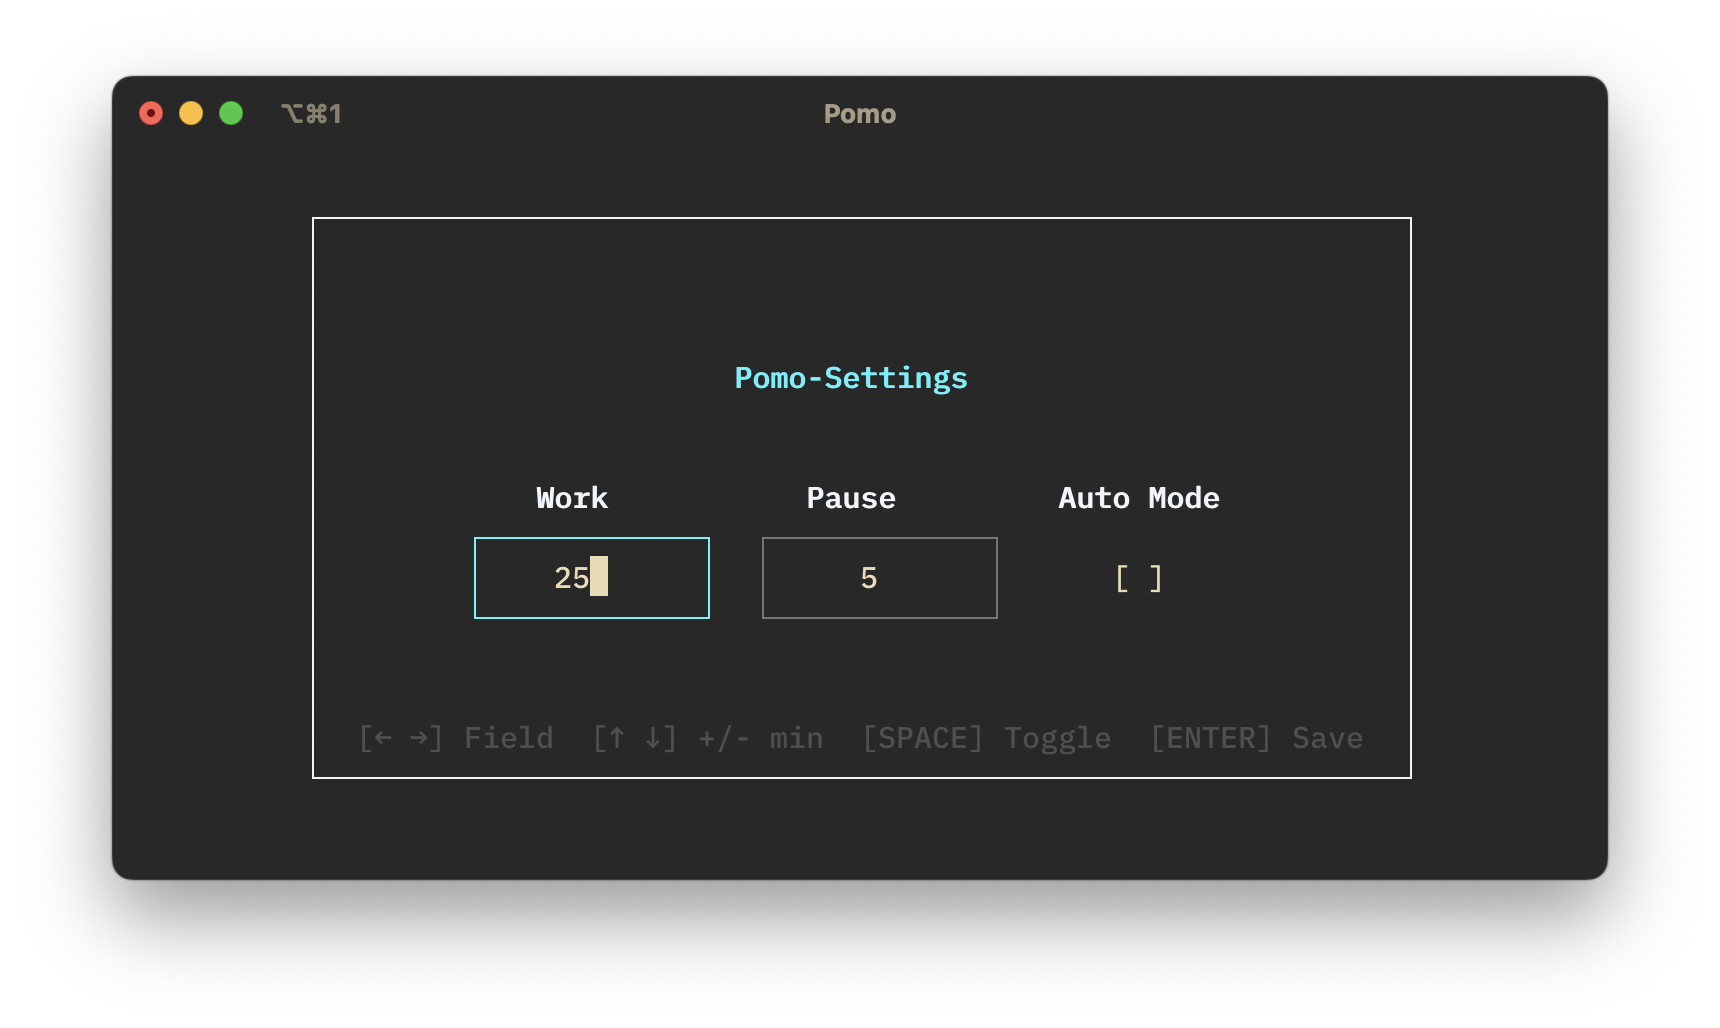
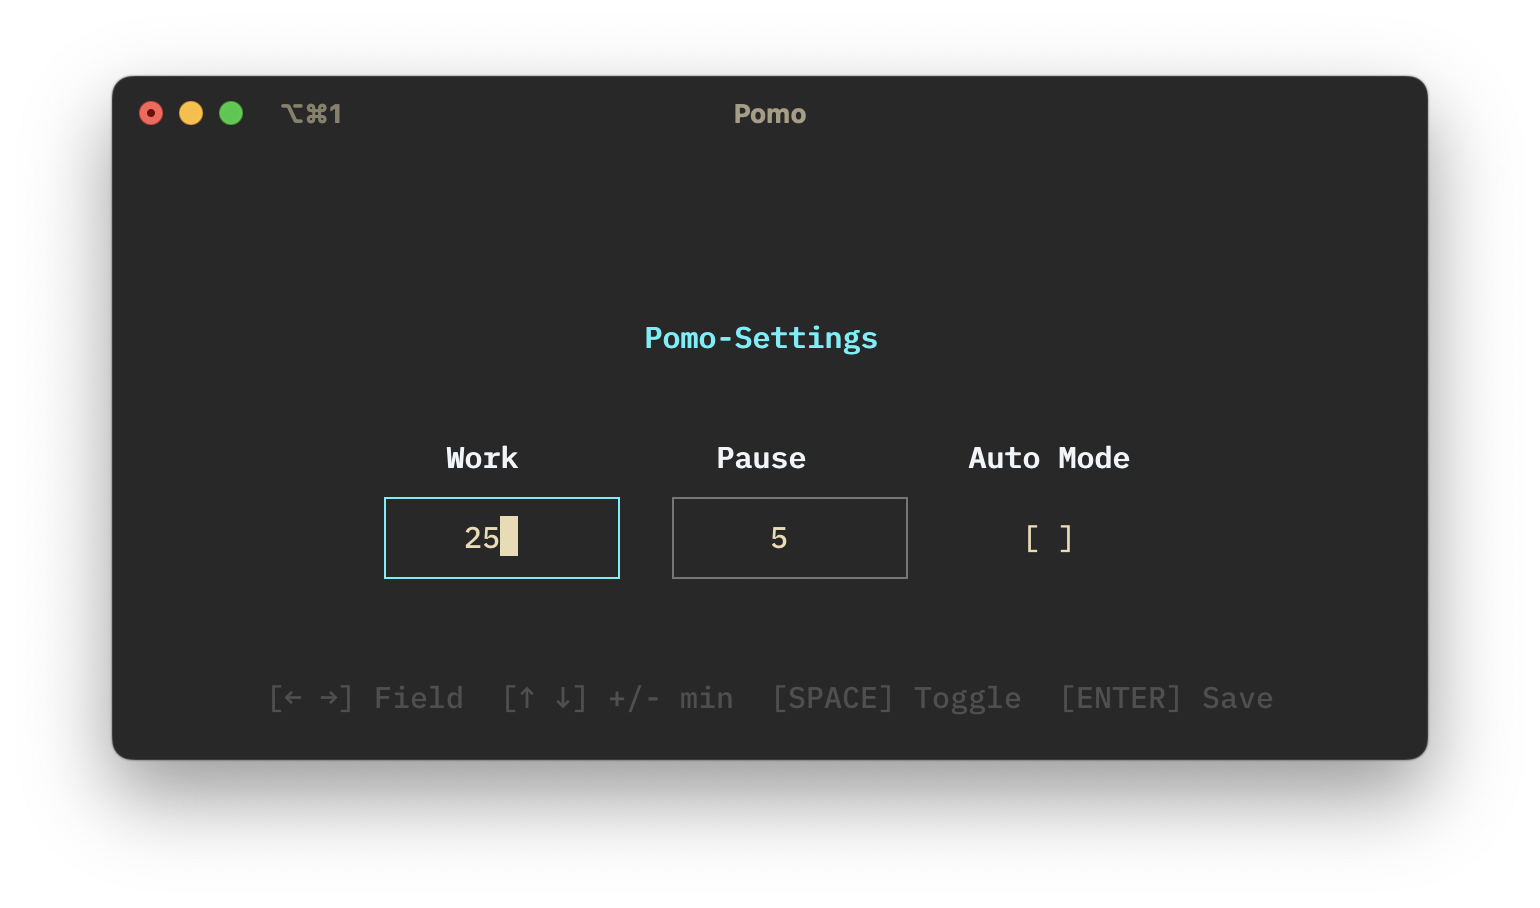
remove border

diff --git a/main.go b/main.go
@@ -391,8 +391,6 @@ func (m model) View() string {
 
 	viewStyle := lg.NewStyle().
 		Padding(1, 2, 0, 2).
-		Border(lg.NormalBorder()).
-		BorderForeground(primaryColor).
 		Align(lg.Center).
 		Width(60)
 
